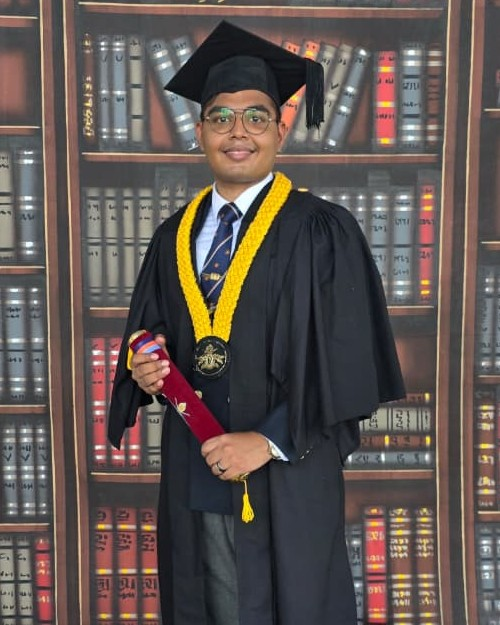
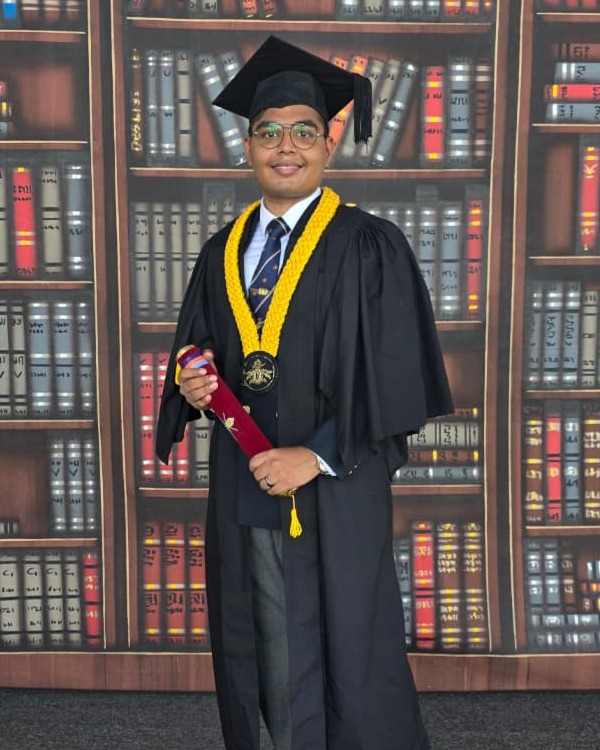
Fix hero portrait distortion on phones and use a wider crop

diff --git a/css/site.css b/css/site.css
@@ -87,7 +87,7 @@ a{color:inherit;}
 .hero-links a:hover{color:var(--ink);text-decoration:underline;text-underline-offset:4px;}
 .hero-links svg{width:18px;height:18px;fill:currentColor;}
 .portrait{position:relative;max-width:380px;justify-self:end;width:100%;}
-.portrait img{width:100%;aspect-ratio:4/5;object-fit:cover;border-radius:20px;background:var(--bg-alt);box-shadow:var(--shadow);}
+.portrait img{width:100%;height:auto;aspect-ratio:4/5;object-fit:cover;object-position:50% 20%;border-radius:20px;background:var(--bg-alt);box-shadow:var(--shadow);}
 .portrait::before{content:'';position:absolute;inset:18px -18px -18px 18px;border-radius:20px;background:var(--accent-soft);z-index:-1;}
 .stats{display:grid;grid-template-columns:repeat(3,1fr);margin-top:3.5rem;border:1px solid var(--line);border-radius:var(--radius);background:#fff;}
 .stat{padding:1.4rem 1.5rem;border-right:1px solid var(--line);}
@@ -265,7 +265,8 @@ a{color:inherit;}
 /* ===== Responsive ===== */
 @media(max-width:1000px){
   .hero-grid{grid-template-columns:1fr;gap:3rem;}
-  .portrait{justify-self:start;max-width:320px;}
+  .portrait{justify-self:center;max-width:340px;margin:0 14px 14px 0;}
+  .portrait::before{inset:12px -12px -12px 12px;}
   .grid-3{grid-template-columns:repeat(2,1fr);}
   .about-grid,.contact-grid{grid-template-columns:1fr;gap:2.5rem;}
   .skill-groups{grid-template-columns:1fr;}
@@ -282,9 +283,10 @@ a{color:inherit;}
   .section{padding:3.75rem 0;}
   .hero{padding:2.5rem 0 3rem;}
   .grid-3{grid-template-columns:1fr;}
-  .stats{grid-template-columns:1fr;}
-  .stat{border-right:0;border-bottom:1px solid var(--line);}
-  .stat:last-child{border-bottom:0;}
+  .stats{margin-top:2.5rem;}
+  .stat{padding:1rem .5rem;text-align:center;}
+  .stat b{font-size:1.5rem;}
+  .stat span{font-size:.82rem;}
   .hero-actions .btn{flex:1 1 100%;}
   .row{grid-template-columns:64px 1fr;gap:.9rem;}
   .row-thumb{width:64px;height:52px;}

diff --git a/index.html b/index.html
@@ -53,7 +53,7 @@
         </div>
       </div>
       <div class="portrait">
-        <img src="images/portrait.jpg" alt="Portrait of Dilmin Siriwardana" width="500" height="625">
+        <img src="images/portrait.jpg" alt="Portrait of Dilmin Siriwardana" width="600" height="750">
       </div>
     </div>
     <div class="stats" aria-label="Highlights">
